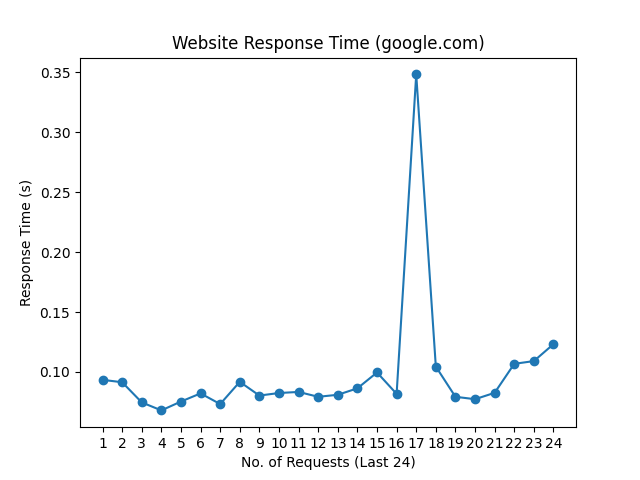
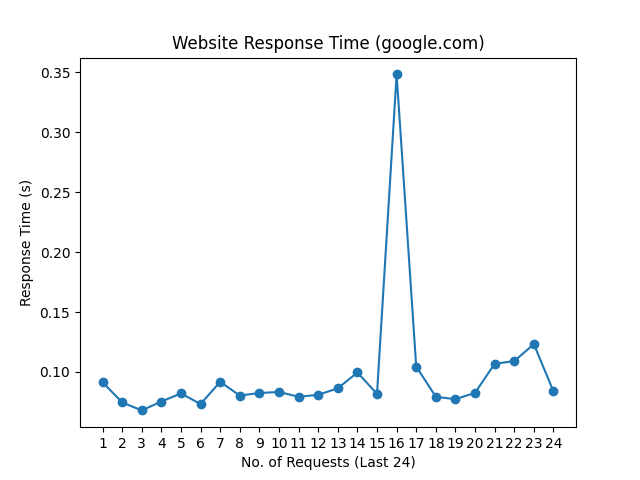
update README.md, history and graph

Changed region(s): [[0.1562, 0.125, 0.875, 0.875]]

diff --git a/README.md b/README.md
@@ -1,10 +1,10 @@
 # Web Monitoring
 
-Last Checked: 14/12/2024 08:21
+Last Checked: 15/12/2024 08:24
 
 | Website | Response Time (s) | Status | Avg Uptime (%) |
 |---------|-------------------|--------|----------------|
 | www.thiswebsiteisdown.net | 0 <br> <img src="graph/thiswebsiteisdown.net.png" alt="Graph" width="200" height="200">  | ❌ Down | 0.00 |
-| www.netflix.com | 0.784390 <br> <img src="graph/netflix.com.png" alt="Graph" width="200" height="200">  | ✅ Up | 99.80 |
-| www.google.com | 0.123226 <br> <img src="graph/google.com.png" alt="Graph" width="200" height="200">  | ✅ Up | 100.00 |
-| www.facebook.com | 0.498888 <br> <img src="graph/facebook.com.png" alt="Graph" width="200" height="200">  | ✅ Up | 100.00 |
+| www.netflix.com | 0.792974 <br> <img src="graph/netflix.com.png" alt="Graph" width="200" height="200">  | ✅ Up | 99.80 |
+| www.google.com | 0.083821 <br> <img src="graph/google.com.png" alt="Graph" width="200" height="200">  | ✅ Up | 100.00 |
+| www.facebook.com | 0.359476 <br> <img src="graph/facebook.com.png" alt="Graph" width="200" height="200">  | ✅ Up | 100.00 |
